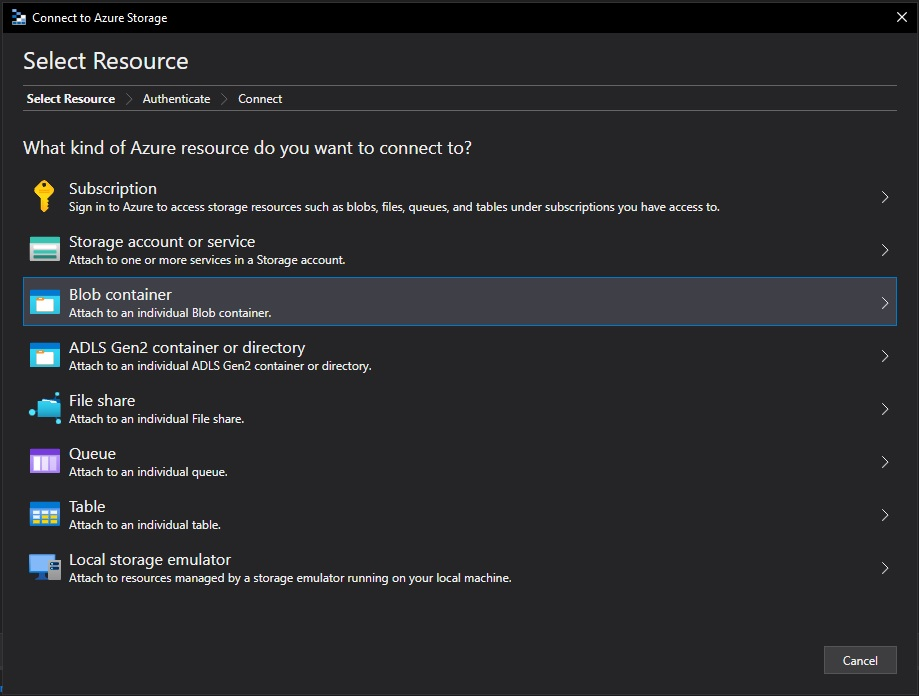
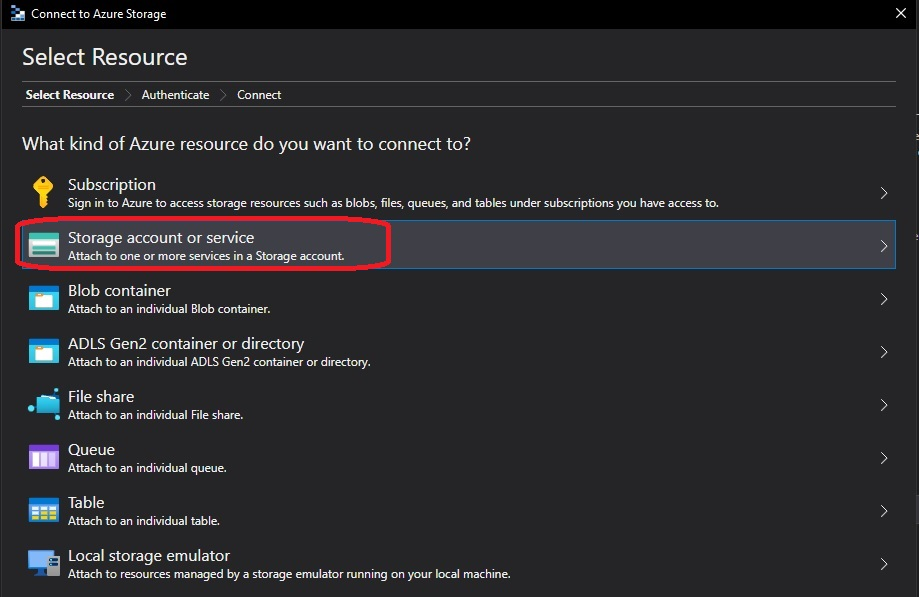
Added more info

Changed region(s): [[0.0, 0.0, 1.0, 0.9648], [0.8836, 0.9045, 0.975, 0.995]]

diff --git a/src/tf-files/860150-storage-std-blob-container-resource/ReadMe.md b/src/tf-files/860150-storage-std-blob-container-resource/ReadMe.md
@@ -44,4 +44,8 @@
 
 - ![Shared Access Signature](./images/7SAS1.jpg)
 
-- ![Shared Access Signature](./images/7SAS1.jpg)
+- ![Shared Access Signature](./images/7SAS2.jpg)
+
+- Now about Shared Access Policies.
+
+- 
